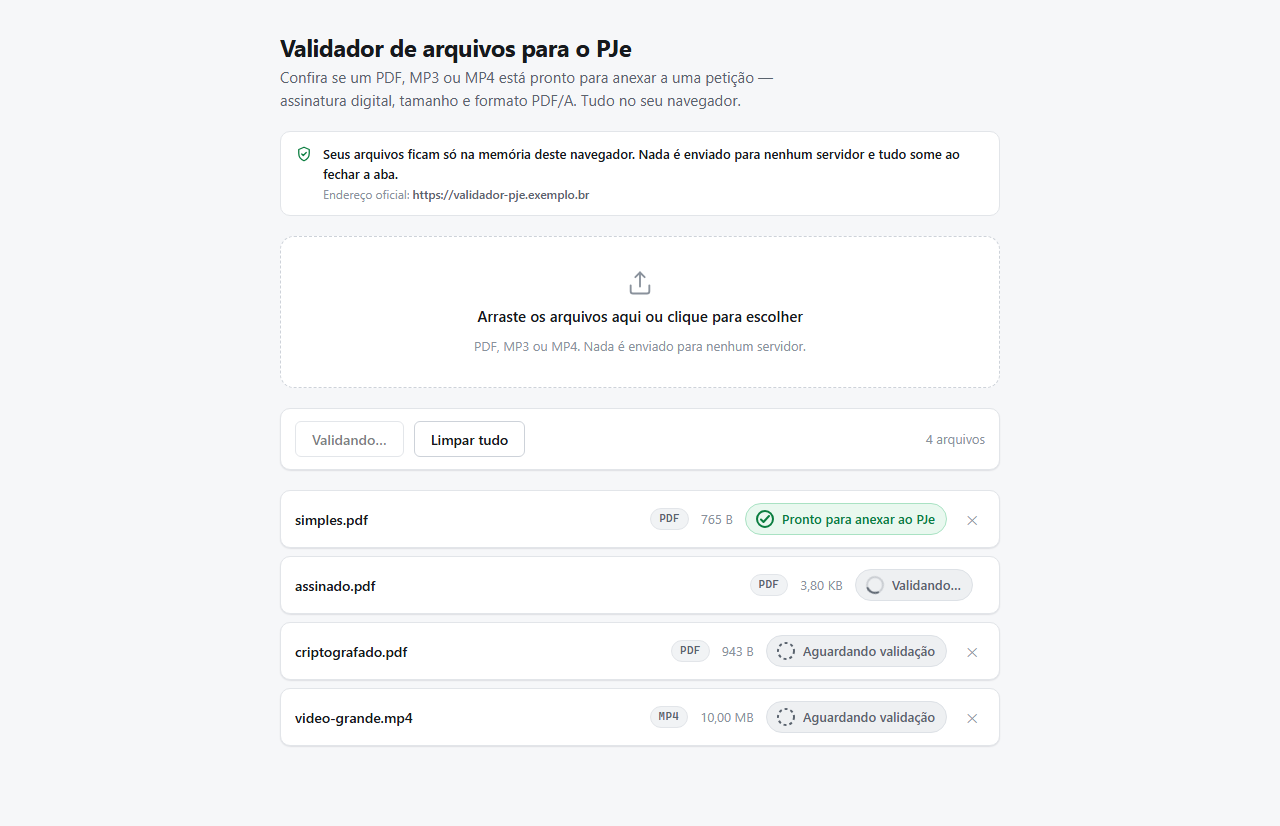
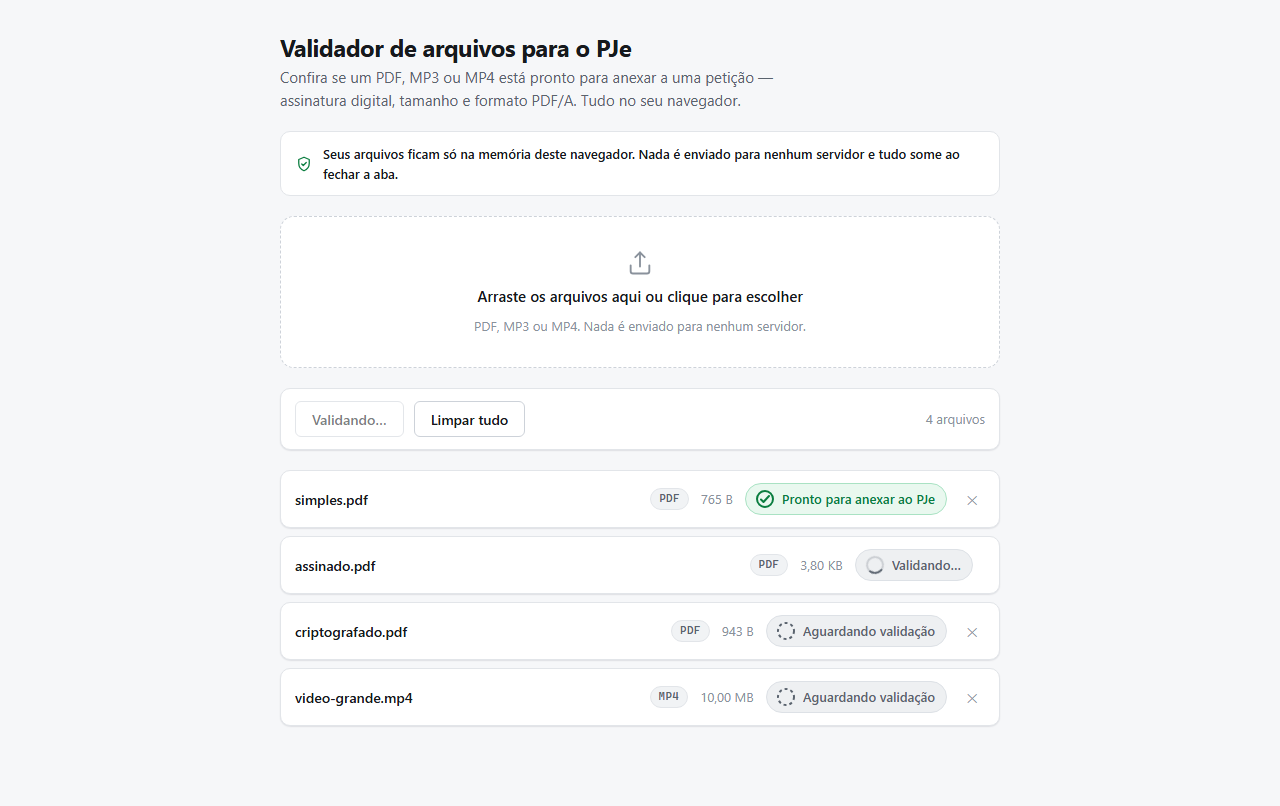
feat: limite de 200 MB para MP3/MP4; UI — remove endereço, espaça o botão Validar
- limites.ts: TAMANHO_MAX_MIDIA_BYTES = 200*1024*1024 (MP3/MP4); PDF continua
  em 10 MB. TAMANHO_ABSOLUTO_LEITURA_BYTES sobe para 200 MB (recusa sem ler só
  acima disso).
- validarTamanho: escolhe o limite pelo tipo. Mídia acima de 200 MB -> erro
  sem correção automática (só orientação, decisão P2-1).
- AvisoPrivacidade: removida a linha "Endereço oficial: ...". A constante
  ENDERECO_OFICIAL fica para um eventual link de rodapé.
- BotaoValidar: 16px entre o botão e a dica "Adicione ao menos um arquivo".
- Testes ajustados. 202 unit + 7 bundle + e2e verdes.

diff --git a/src/validadores/tamanho.ts b/src/validadores/tamanho.ts
@@ -3,24 +3,29 @@ import { LIMITES } from '../config/limites';
 import { formatarTamanho } from '../infra/formato';
 import type { ContextoArquivo } from './contexto';
 
-/** Regra 2 — o arquivo não pode exceder o limite de tamanho (spec §7.2). */
+/**
+ * Regra 2 — o arquivo não pode exceder o limite de tamanho (spec §7.2).
+ * PDF: `TAMANHO_MAX_BYTES` (10 MB). MP3/MP4: `TAMANHO_MAX_MIDIA_BYTES` (200 MB).
+ */
 export function validarTamanho(ctx: ContextoArquivo): Ocorrencia[] {
-  if (ctx.tamanhoBytes <= LIMITES.TAMANHO_MAX_BYTES) return [];
+  const ehMidia = ctx.tipo === 'audio/mpeg' || ctx.tipo === 'video/mp4';
+  const limite = ehMidia ? LIMITES.TAMANHO_MAX_MIDIA_BYTES : LIMITES.TAMANHO_MAX_BYTES;
 
-  const excedente = ctx.tamanhoBytes - LIMITES.TAMANHO_MAX_BYTES;
+  if (ctx.tamanhoBytes <= limite) return [];
+
+  const excedente = ctx.tamanhoBytes - limite;
   // PDF: compressão automática. MP3/MP4: só orientação textual (decisão P2-1).
-  const ehPdf = ctx.tipo === 'application/pdf';
-  const correcao: EstrategiaCorrecao | null = ehPdf ? 'COMPRIMIR_PDF' : null;
+  const correcao: EstrategiaCorrecao | null = ehMidia ? null : 'COMPRIMIR_PDF';
 
   return [
     {
       codigo: 'TAMANHO_EXCEDIDO',
       gravidade: 'erro',
-      mensagem: `O arquivo tem ${formatarTamanho(ctx.tamanhoBytes)} — ${formatarTamanho(excedente)} acima do limite de ${formatarTamanho(LIMITES.TAMANHO_MAX_BYTES)}.`,
-      detalheTecnico: `${ctx.tamanhoBytes} bytes; limite ${LIMITES.TAMANHO_MAX_BYTES} bytes; excedente ${excedente} bytes`,
-      orientacao: ehPdf
-        ? 'A correção automática comprime o PDF por tentativas até caber no limite.'
-        : 'Reduza a duração ou recodifique com bitrate menor no seu editor. A recodificação automática de mídia não está disponível nesta versão.',
+      mensagem: `O arquivo tem ${formatarTamanho(ctx.tamanhoBytes)} — ${formatarTamanho(excedente)} acima do limite de ${formatarTamanho(limite)}.`,
+      detalheTecnico: `${ctx.tamanhoBytes} bytes; limite ${limite} bytes; excedente ${excedente} bytes`,
+      orientacao: ehMidia
+        ? 'Reduza a duração ou recodifique com bitrate menor no seu editor. A recodificação automática de mídia não está disponível nesta versão.'
+        : 'A correção automática comprime o PDF por tentativas até caber no limite.',
       correcaoDisponivel: correcao,
     },
   ];

diff --git a/src/config/limites.ts b/src/config/limites.ts
@@ -4,14 +4,17 @@
  */
 
 export const LIMITES = {
-  /** Teto de tamanho por arquivo. Os tribunais divergem; alterar só aqui. (spec §7.2) */
+  /** Teto de tamanho para PDF. Os tribunais divergem; alterar só aqui. (spec §7.2) */
   TAMANHO_MAX_BYTES: 10 * 1024 * 1024,
 
+  /** Teto de tamanho para MP3/MP4 (áudio/vídeo de audiências são grandes). */
+  TAMANHO_MAX_MIDIA_BYTES: 200 * 1024 * 1024,
+
   /**
-   * Acima disto a ferramenta recusa sem sequer ler os bytes — um arquivo desse
-   * porte reprova por tamanho de qualquer forma (spec §10.2).
+   * Acima disto a ferramenta recusa sem sequer ler os bytes — nem a mídia
+   * ultrapassa isso (spec §10.2).
    */
-  TAMANHO_ABSOLUTO_LEITURA_BYTES: 100 * 1024 * 1024,
+  TAMANHO_ABSOLUTO_LEITURA_BYTES: 200 * 1024 * 1024,
 
   /** Máximo de arquivos aceitos por lote (auto-DoS do navegador, spec §10.2). */
   MAX_ARQUIVOS_LOTE: 20,
@@ -54,8 +57,8 @@ export const COMPRESSAO_TENTATIVAS: readonly NivelCompressao[] = [
 export const DPI_AVISO_RESOLUCAO = 100;
 
 /**
- * Endereço oficial da ferramenta, exibido na interface (spec §10.4). Editável
- * só aqui. Ajustar quando o domínio de produção for definido.
+ * Endereço oficial da ferramenta (spec §10.4). Hoje não é exibido na interface;
+ * mantido para um eventual link de rodapé / metadado. Ajustar no deploy.
  */
 export const ENDERECO_OFICIAL = 'https://validador-pje.exemplo.br';
 

diff --git a/src/ui/AvisoPrivacidade.tsx b/src/ui/AvisoPrivacidade.tsx
@@ -1,9 +1,8 @@
-import { ENDERECO_OFICIAL } from '../config/limites';
 import css from './AvisoPrivacidade.module.css';
 
 /**
- * Declaração de privacidade curta e verificável (spec §9.6, §11) e endereço
- * oficial da ferramenta (spec §10.4). Não promete "apagamento seguro".
+ * Declaração de privacidade curta e verificável (spec §9.6, §11).
+ * Não promete "apagamento seguro".
  */
 export function AvisoPrivacidade() {
   return (
@@ -23,15 +22,10 @@ export function AvisoPrivacidade() {
         <path d="M12 3l7 3v5c0 4.5-3 8.5-7 10-4-1.5-7-5.5-7-10V6l7-3z" />
         <path d="M9 12l2 2 4-4" />
       </svg>
-      <div className={css.texto}>
-        <p className={css.frase}>
-          Seus arquivos ficam só na memória deste navegador. Nada é enviado para nenhum
-          servidor e tudo some ao fechar a aba.
-        </p>
-        <p className={css.endereco}>
-          Endereço oficial: <strong>{ENDERECO_OFICIAL}</strong>
-        </p>
-      </div>
+      <p className={css.frase}>
+        Seus arquivos ficam só na memória deste navegador. Nada é enviado para nenhum
+        servidor e tudo some ao fechar a aba.
+      </p>
     </aside>
   );
 }

diff --git a/src/ui/AreaUpload.tsx b/src/ui/AreaUpload.tsx
@@ -18,7 +18,7 @@ function novoId(): string {
 }
 
 function itemReprovadoPorTamanho(file: File): ItemArquivo {
-  const excedente = file.size - LIMITES.TAMANHO_MAX_BYTES;
+  const excedente = file.size - LIMITES.TAMANHO_ABSOLUTO_LEITURA_BYTES;
   return {
     id: novoId(),
     file,
@@ -40,9 +40,9 @@ function itemReprovadoPorTamanho(file: File): ItemArquivo {
         {
           codigo: 'TAMANHO_EXCEDIDO',
           gravidade: 'erro',
-          mensagem: `O arquivo tem ${formatarTamanho(file.size)} — ${formatarTamanho(excedente)} acima do limite. É grande demais para processar no navegador.`,
+          mensagem: `O arquivo tem ${formatarTamanho(file.size)} — ${formatarTamanho(excedente)} acima do teto de ${formatarTamanho(LIMITES.TAMANHO_ABSOLUTO_LEITURA_BYTES)}. É grande demais para processar no navegador.`,
           detalheTecnico: `${file.size} bytes; acima do teto absoluto de leitura (${LIMITES.TAMANHO_ABSOLUTO_LEITURA_BYTES} bytes)`,
-          orientacao: 'Divida o documento em partes menores antes de enviar.',
+          orientacao: 'Divida o arquivo em partes menores antes de enviar.',
           correcaoDisponivel: null,
         },
       ],

diff --git a/src/validadores/tamanho.test.ts b/src/validadores/tamanho.test.ts
@@ -25,8 +25,20 @@ test('um byte acima -> TAMANHO_EXCEDIDO erro, com excedente no detalhe', () => {
   expect(o[0]!.correcaoDisponivel).toBe('COMPRIMIR_PDF');
 });
 
-test('MP4 grande -> sem correção automática (só orientação, decisão P2-1)', () => {
-  const o = validarTamanho(ctxFake(50 * 1024 * 1024, 'video/mp4'));
+test('PDF de 50 MB -> TAMANHO_EXCEDIDO (limite PDF é 10 MB)', () => {
+  const o = validarTamanho(ctxFake(50 * 1024 * 1024, 'application/pdf'));
+  expect(o[0]!.codigo).toBe('TAMANHO_EXCEDIDO');
+});
+
+test('MP4 de 50 MB -> OK (limite de mídia é 200 MB)', () => {
+  expect(validarTamanho(ctxFake(50 * 1024 * 1024, 'video/mp4'))).toEqual([]);
+});
+
+test('MP3 de 199 MB -> OK; MP3 acima de 200 MB -> TAMANHO_EXCEDIDO, sem correção', () => {
+  expect(validarTamanho(ctxFake(199 * 1024 * 1024, 'audio/mpeg'))).toEqual([]);
+  const o = validarTamanho(ctxFake(LIMITES.TAMANHO_MAX_MIDIA_BYTES + 1, 'audio/mpeg'));
+  expect(o[0]!.codigo).toBe('TAMANHO_EXCEDIDO');
   expect(o[0]!.correcaoDisponivel).toBeNull();
   expect(o[0]!.orientacao).toMatch(/bitrate menor/i);
+  expect(o[0]!.mensagem).toMatch(/200,00 MB/);
 });

diff --git a/src/ui/controles.test.tsx b/src/ui/controles.test.tsx
@@ -4,7 +4,6 @@ import { expect, test, vi } from 'vitest';
 import { BotaoValidar } from './BotaoValidar';
 import { ControlesDescarte } from './ControlesDescarte';
 import { AvisoPrivacidade } from './AvisoPrivacidade';
-import { ENDERECO_OFICIAL } from '../config/limites';
 
 test('BotaoValidar: lista vazia -> aria-disabled e rótulo explicativo associado', () => {
   render(<BotaoValidar habilitado={false} validando={false} onValidar={() => {}} />);
@@ -44,9 +43,8 @@ test('ControlesDescarte: ocioso mostra o banner com o texto exato', () => {
   expect(screen.getByText('Os arquivos foram descartados por inatividade.')).toBeInTheDocument();
 });
 
-test('AvisoPrivacidade: frase de privacidade + endereço oficial, sem "apagamento seguro"', () => {
+test('AvisoPrivacidade: frase de privacidade, sem "apagamento seguro"', () => {
   render(<AvisoPrivacidade />);
   expect(screen.getByText(/só na memória deste navegador/i)).toBeInTheDocument();
-  expect(screen.getByText(ENDERECO_OFICIAL)).toBeInTheDocument();
   expect(screen.queryByText(/apagamento seguro|apaga com segurança/i)).not.toBeInTheDocument();
 });

diff --git a/tests/e2e/correcao.spec.ts b/tests/e2e/correcao.spec.ts
@@ -45,10 +45,10 @@ test('PDF assinado E criptografado → Tentar corrigir → corrigido (motor de t
   await expect(linha.getByText('Corrigido — revalidado com sucesso')).toBeVisible({ timeout: 15_000 });
 });
 
-test('MP4 acima do limite → sem correção automática, só orientação (decisão P2-1)', async ({ page }) => {
+test('MP4 de dezenas de MB → apto (limite de mídia é 200 MB, não 10)', async ({ page }) => {
   await validar(page, 'video-grande.mp4');
   const linha = page.getByRole('listitem', { name: 'video-grande.mp4' });
-  await expect(linha.getByText(/bitrate menor/i).first()).toBeVisible();
+  await expect(linha.getByText('Pronto para anexar ao PJe')).toBeVisible();
   await expect(linha.getByRole('button', { name: /tentar corrigir/i })).toHaveCount(0);
 });
 

diff --git a/src/ui/BotaoValidar.tsx b/src/ui/BotaoValidar.tsx
@@ -1,4 +1,5 @@
 import { useId } from 'react';
+import css from './BotaoValidar.module.css';
 
 /**
  * Botão Validar (spec §5, §14.2). Lista vazia: desabilitado com aria-disabled
@@ -17,7 +18,7 @@ export function BotaoValidar({
   const desabilitado = !habilitado || validando;
 
   return (
-    <div>
+    <div className={css.raiz}>
       <button
         type="button"
         onClick={onValidar}
@@ -28,7 +29,7 @@ export function BotaoValidar({
         {validando ? 'Validando…' : 'Validar'}
       </button>
       {!habilitado && (
-        <span id={dicaId} role="note">
+        <span id={dicaId} className={css.dica} role="note">
           Adicione ao menos um arquivo para validar.
         </span>
       )}

diff --git a/src/validadores/validarArquivo.test.ts b/src/validadores/validarArquivo.test.ts
@@ -75,10 +75,12 @@ describe('spec §14.1', () => {
     }
   });
 
-  test('MP4 grande -> reprovado só por tamanho', async () => {
-    const r = await val('video-grande.mp4');
-    expect(cod(r)).toEqual(['TAMANHO_EXCEDIDO']);
-    expect(r.ocorrencias[0]!.correcaoDisponivel).toBeNull();
+  test('MP4/MP3 de dezenas de MB -> apto (limite de mídia é 200 MB, não 10)', async () => {
+    for (const nome of ['video-grande.mp4', 'audio-grande.mp3']) {
+      const r = await val(nome);
+      expect(r.apto, nome).toBe(true);
+      expect(cod(r), nome).toEqual([]);
+    }
   });
 
   test('PDF/A-1b -> apto, pdfaParte 1, conformidade B, sem ocorrências', async () => {

diff --git a/src/ui/AvisoPrivacidade.module.css b/src/ui/AvisoPrivacidade.module.css
@@ -1,7 +1,7 @@
 .raiz {
   display: flex;
   gap: 10px;
-  align-items: flex-start;
+  align-items: center;
   padding: 12px 14px;
   background: var(--cor-superficie);
   border: 1px solid var(--cor-borda);
@@ -11,13 +11,6 @@
 .icone {
   flex-shrink: 0;
   color: var(--cor-ok);
-  margin-top: 1px;
-}
-
-.texto {
-  display: flex;
-  flex-direction: column;
-  gap: 2px;
 }
 
 .frase {
@@ -25,14 +18,4 @@
   font-weight: 560;
   font-size: 0.8125rem;
   color: var(--cor-texto);
-}
-
-.endereco {
-  margin: 0;
-  font-size: 0.75rem;
-  color: var(--cor-texto-3);
-}
-.endereco strong {
-  color: var(--cor-texto-2);
-  font-weight: 600;
 }

diff --git a/src/config/limites.test.ts b/src/config/limites.test.ts
@@ -1,7 +1,8 @@
 import { LIMITES, PDFA } from './limites';
 
-test('limite de tamanho é exatamente 10 * 1024 * 1024', () => {
+test('limite de PDF é 10 * 1024 * 1024; limite de mídia é 200 * 1024 * 1024', () => {
   expect(LIMITES.TAMANHO_MAX_BYTES).toBe(10_485_760);
+  expect(LIMITES.TAMANHO_MAX_MIDIA_BYTES).toBe(200 * 1024 * 1024);
 });
 
 test('máximo de arquivos por lote é 20', () => {

diff --git a/src/ui/BotaoValidar.module.css b/src/ui/BotaoValidar.module.css
@@ -1,0 +1,10 @@
+.raiz {
+  display: flex;
+  align-items: center;
+  gap: 16px;
+}
+
+.dica {
+  color: var(--cor-texto-3);
+  font-size: 0.8125rem;
+}
